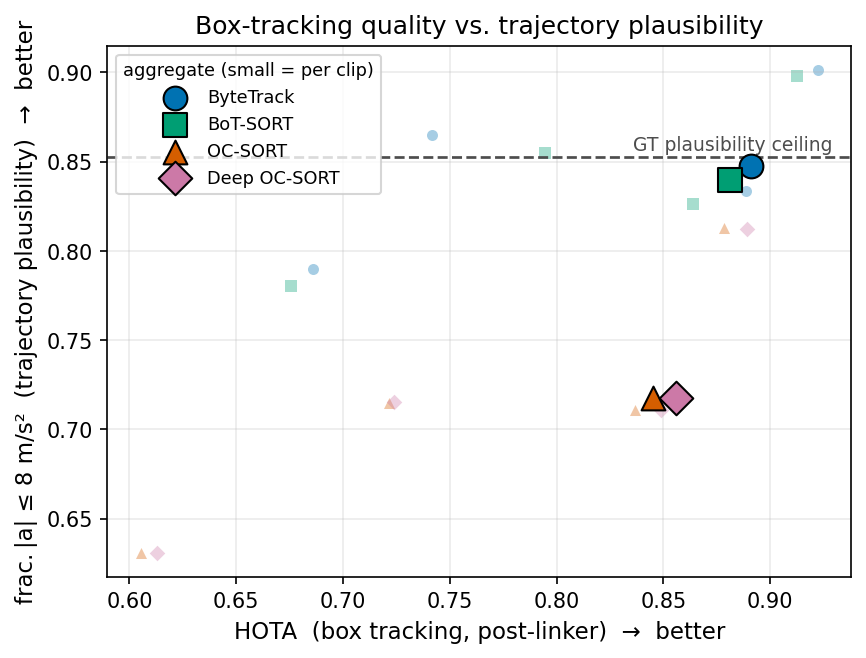
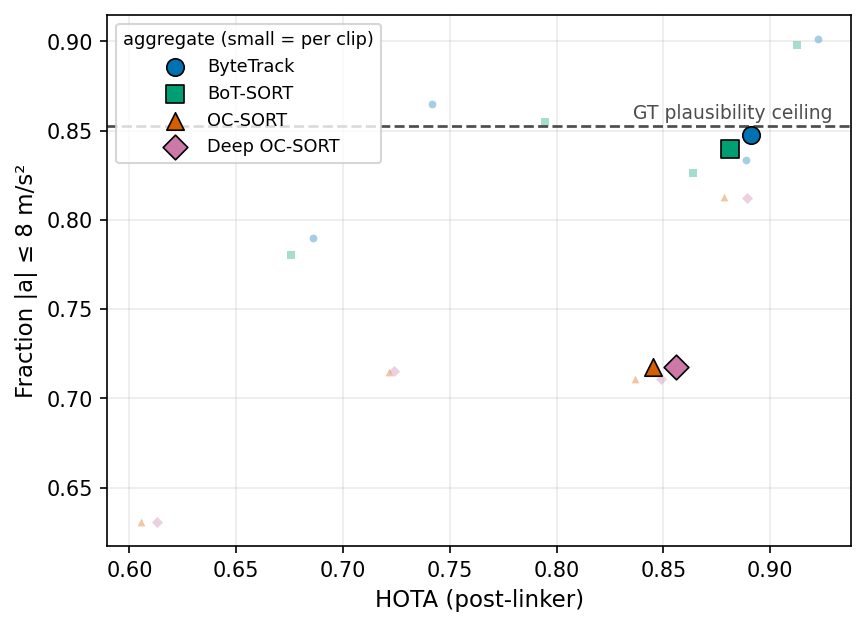
F4: remove title, smaller markers, concise axis labels
Title dropped (manuscript caption), aggregate marker 130->70 and per-clip 28->14,
axis labels shortened to 'HOTA (post-linker)' and 'Fraction |a| <= 8 m/s^2'.

diff --git a/scripts/make_paper_figures.py b/scripts/make_paper_figures.py
@@ -233,17 +233,16 @@ def fig_boxvstraj():
         # per-clip points (small, translucent)
         xs = [hota[(c, t)] for c in BENCH_CLIPS if (c, t) in hota and (c, t) in accel]
         ys = [accel[(c, t)] for c in BENCH_CLIPS if (c, t) in hota and (c, t) in accel]
-        ax.scatter(xs, ys, c=COLOR[t], marker=MARKER[t], s=28, alpha=0.35,
+        ax.scatter(xs, ys, c=COLOR[t], marker=MARKER[t], s=14, alpha=0.35,
                    linewidths=0)
         # aggregate point (large, labelled)
         ax_, ay_ = hota.get(("ALL", t)), accel.get(("ALL", t))
         if ax_ and ay_:
-            ax.scatter([ax_], [ay_], c=COLOR[t], marker=MARKER[t], s=130,
-                       edgecolors="black", linewidths=1.0, zorder=5,
+            ax.scatter([ax_], [ay_], c=COLOR[t], marker=MARKER[t], s=70,
+                       edgecolors="black", linewidths=0.8, zorder=5,
                        label=LABEL[t])
-    ax.set_xlabel("HOTA  (box tracking, post-linker)  →  better")
-    ax.set_ylabel("frac. |a| ≤ 8 m/s²  (trajectory plausibility)  →  better")
-    ax.set_title("Box-tracking quality vs. trajectory plausibility")
+    ax.set_xlabel("HOTA (post-linker)")
+    ax.set_ylabel("Fraction |a| ≤ 8 m/s²")
     ax.legend(loc="upper left", frameon=True, fontsize=8.5, title_fontsize=8.5,
               title="aggregate (small = per clip)")
     ax.grid(True, alpha=0.25)
